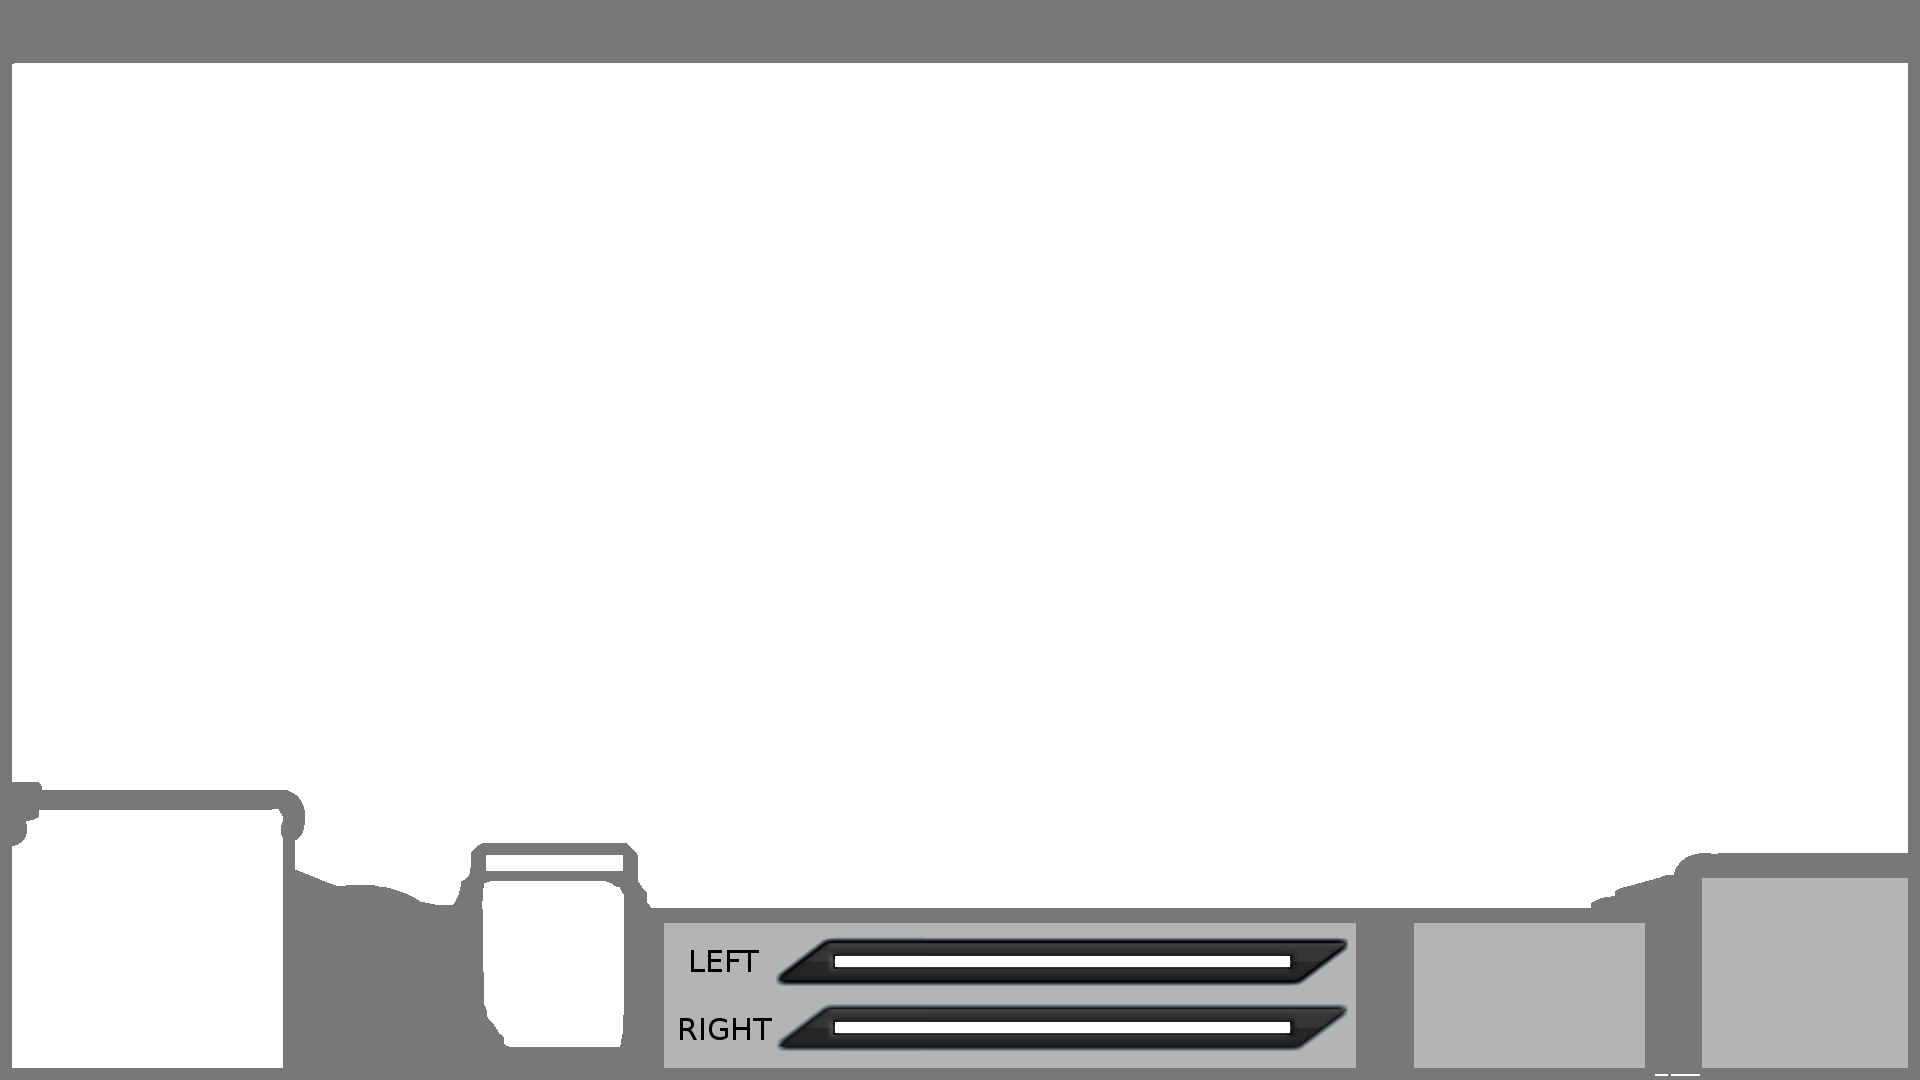
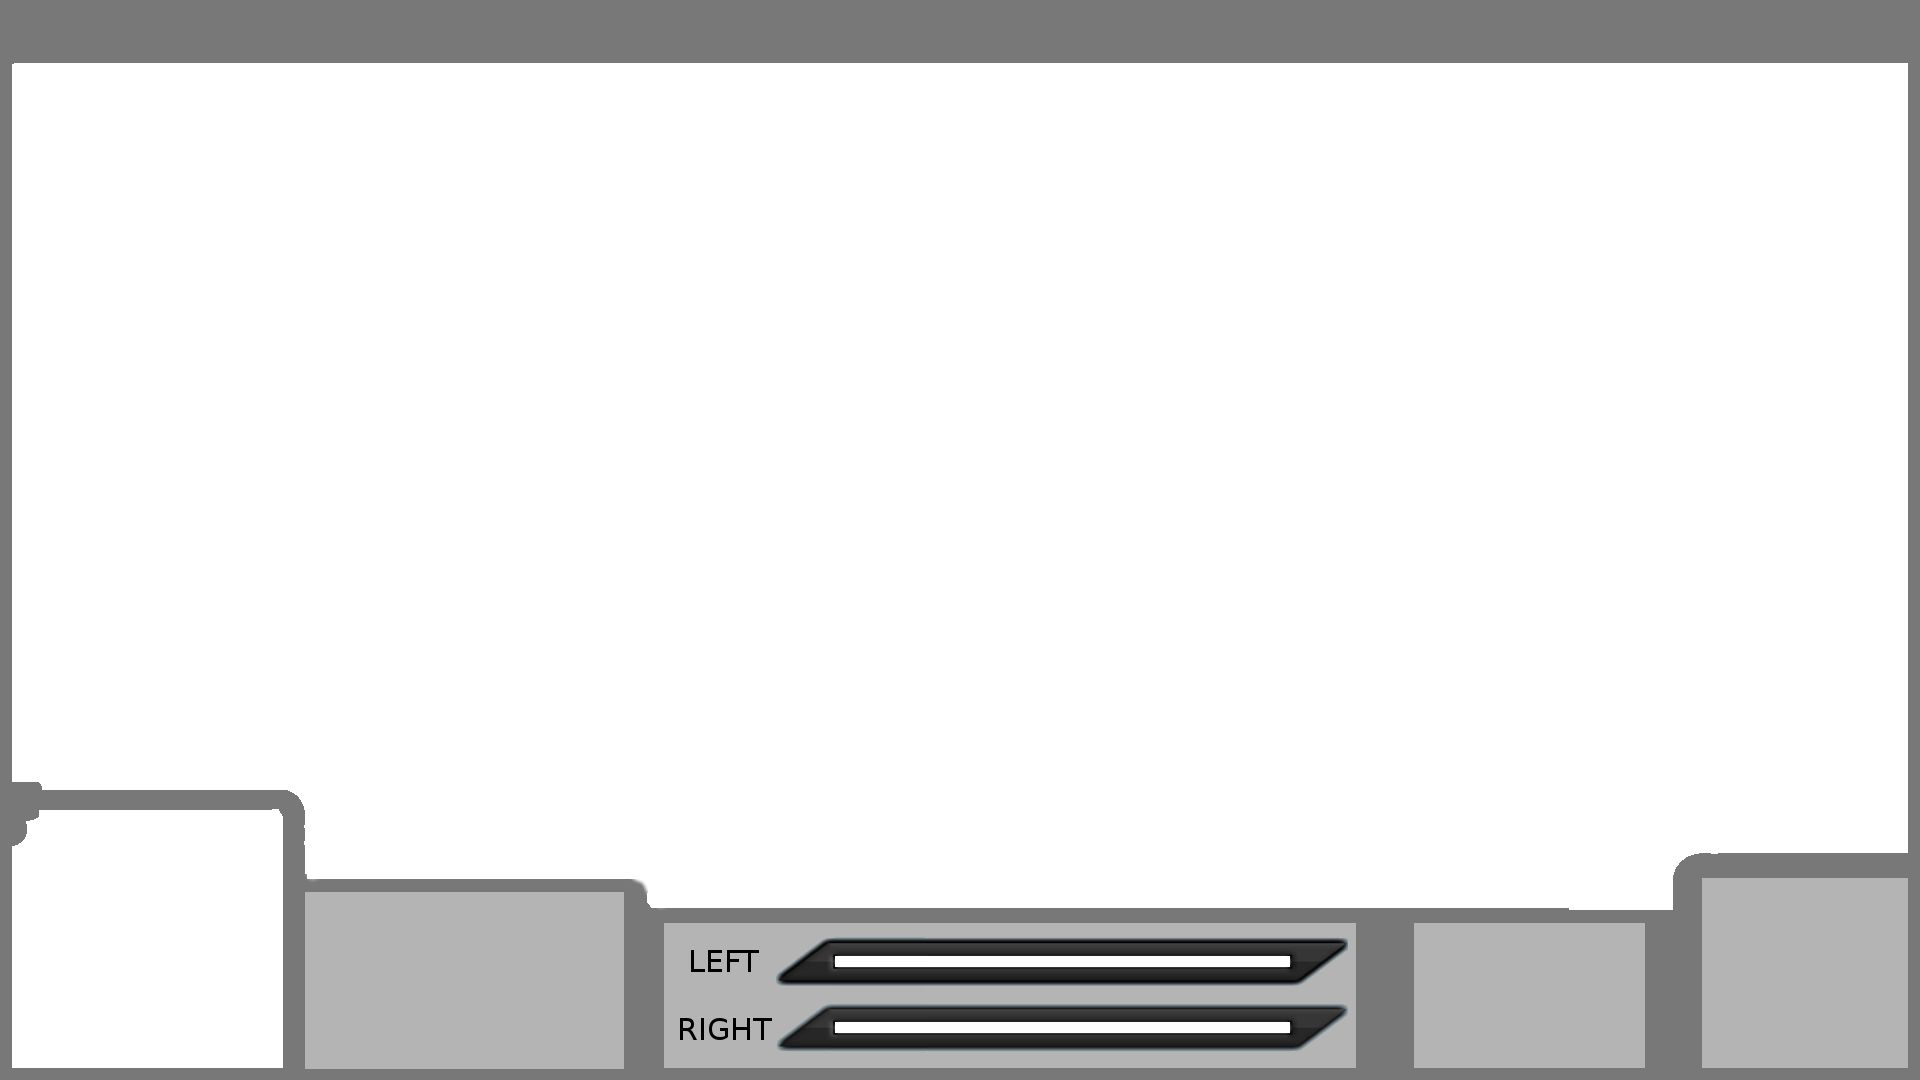
HUD

Changed region(s): [[0.1562, 0.7639, 0.3438, 1.0], [0.8125, 0.7944, 0.875, 0.8556]]

diff --git a/Xi0nGUI/src/view/Xi0nSimulation.java b/Xi0nGUI/src/view/Xi0nSimulation.java
@@ -14,14 +14,11 @@ import com.badlogic.gdx.scenes.scene2d.Actor;
 import com.badlogic.gdx.scenes.scene2d.Stage;
 import com.badlogic.gdx.scenes.scene2d.ui.ButtonGroup;
 
-<<<<<<< HEAD
-import view.robot.Robot;
-=======
 import view.robot.Mode;
+import view.robot.Robot;
 import view.ui.AutomaticButton;
 import view.ui.ControllerButton;
 import view.ui.KeyboardButton;
->>>>>>> branch 'dev' of https://github.com/haze-sama/Xi0n.git
 import view.ui.QuitButton;
 import view.ui.RestartButton;
 import view.ui.StartButton;
@@ -53,25 +50,25 @@ public enum Xi0nSimulation implements ApplicationListener {
 		this.room = new Room();
 		this.sr = new ShapeRenderer();
 		this.shud = new ShapeRenderer();
+		this.font = new BitmapFont();
 		this.stage = new Stage();
 		this.batch = new SpriteBatch();
 		this.HUD = new Texture("assets/HUD.png");
-		this.font = new BitmapFont();
 
 		Gdx.input.setInputProcessor(this.stage);
-		this.stage.addActor(new StartButton(500, 30));
+		this.stage.addActor(new StartButton(30, 30));
 		this.stage.addActor(new RestartButton(30, 130));
 		this.stage.addActor(new QuitButton(1860, 1025));
 
-		this.keyboardButton = new KeyboardButton(100, 300);
-		this.controllerButton = new ControllerButton(100, 400);
-		this.automaticButton = new AutomaticButton(100, 500);
+		this.keyboardButton = new KeyboardButton(400, 15);
+		this.controllerButton = new ControllerButton(400, 75);
+		this.automaticButton = new AutomaticButton(400, 135);
 
 		this.stage.addActor(this.keyboardButton);
 		this.stage.addActor(this.controllerButton);
 		this.stage.addActor(this.automaticButton);
 
-		this.buttonGroup = new ButtonGroup<UIButton>(keyboardButton, controllerButton, automaticButton);
+		this.buttonGroup = new ButtonGroup<UIButton>(this.keyboardButton, this.controllerButton, this.automaticButton);
 
 		this.buttonGroup.setMaxCheckCount(1);
 		this.buttonGroup.setMinCheckCount(0);
@@ -81,7 +78,7 @@ public enum Xi0nSimulation implements ApplicationListener {
 
 	public void addButton(UIButton button) {
 		this.stage.addActor(button);
-	}
+}
 
 	public void removeButton(String name) {
 		for (Actor actor : this.stage.getActors()) {

diff --git a/Xi0nGUI/src/view/robot/Robot.java b/Xi0nGUI/src/view/robot/Robot.java
@@ -30,24 +30,21 @@ public class Robot {
 	private RotableRectangle leftWheel;
 	private RotableRectangle rightWheel;
 
-	private List<Circle> visited;
-	private static Robot instance;
-	
 	private Room room;
 
+	private List<Circle> visited;
+	private static Robot instance;
+
 	private Robot(Room room, float x, float y) {
-<<<<<<< HEAD
 		this.input = new InputManager(this, Mode.CONTROLLER, room);
-=======
 		this.room = room;
 		this.setMode(Mode.KEYBOARD);
->>>>>>> branch 'dev' of https://github.com/haze-sama/Xi0n.git
 		this.initialize(x, y);
 	}
 
-	public static Robot getInstance(Room room) {
-		if (instance == null) {
-			instance = new Robot(room, 0, 0);
+	public static Robot getInstance(Room room){
+		if(instance == null){
+			instance =  new Robot(room, 0, 0);
 		}
 		return instance;
 	}
@@ -190,7 +187,7 @@ public class Robot {
 	public int getFrontalDistance(Rectangle rectangle) {
 		return this.frontalSensor.getDistance(rectangle);
 	}
-	
+
 	public void setMode(Mode mode){
 		this.input = new InputManager(this, mode, this.room);
 	}

diff --git a/Xi0nGUI/src/view/ui/UIButton.java b/Xi0nGUI/src/view/ui/UIButton.java
@@ -3,14 +3,9 @@ package view.ui;
 import com.badlogic.gdx.Gdx;
 import com.badlogic.gdx.graphics.Texture;
 import com.badlogic.gdx.graphics.g2d.TextureRegion;
-import com.badlogic.gdx.scenes.scene2d.Event;
-import com.badlogic.gdx.scenes.scene2d.EventListener;
 import com.badlogic.gdx.scenes.scene2d.ui.ImageButton;
 import com.badlogic.gdx.scenes.scene2d.utils.ClickListener;
 import com.badlogic.gdx.scenes.scene2d.utils.TextureRegionDrawable;
-
-import javafx.beans.value.ChangeListener;
-import javafx.beans.value.ObservableValue;
 
 public abstract class UIButton extends ImageButton {
 
